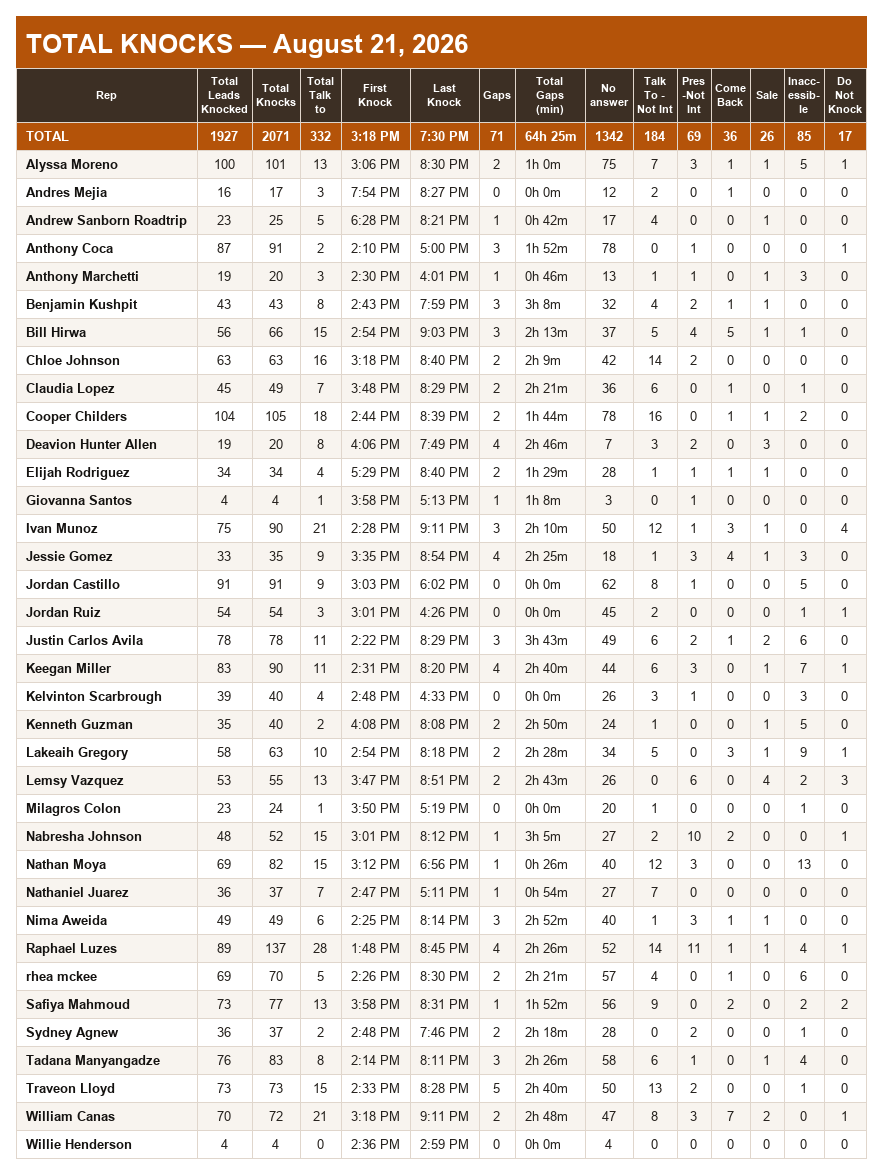
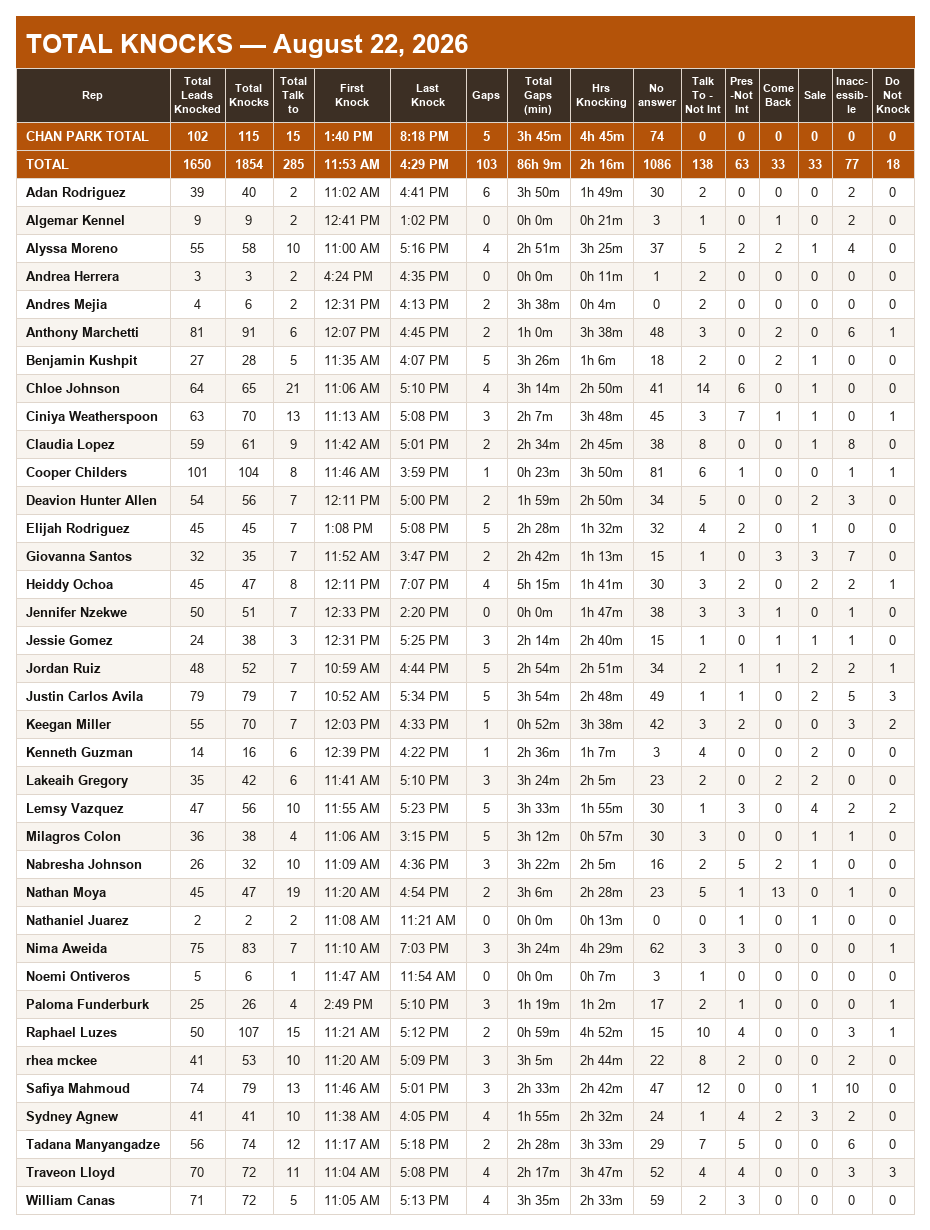
daily knocks board: chan's totals above ours + Hrs Knocking column
raf (slack 2026-08-23):
- the Local Office daily board now carries CHAN PARK TOTAL above our
  TOTAL row — his office pulled in its own session, totals line only,
  best-effort (a chan pull failure never blocks raf's post). offices
  env-configurable via KNOCKS_EXTRA_TOTALS
- new "Hrs Knocking" column after Total Gaps: (last − first) − gaps,
  the same formula his weekly dispositions board uses; rep rows show
  the day, TOTAL rows show the office average
- highlight_first_row now takes an int N (first N rows) mirroring the
  dispositions board's int highlight_last_row; combined-board selection
  and totals math extracted into shared helpers

Changed region(s): [[0.0, 0.0, 1.0, 1.0]]

diff --git a/automations/total_knocks/render.py b/automations/total_knocks/render.py
@@ -74,6 +74,15 @@ COMBINED_KNOCKS_DISPLAY = {
     COL_TALK_TO_NI: "Talk To - Not Int",
     COL_PRES_NI: "Pres - Not Int",
 }
+# Derived at render time (Raf 2026-08-23: "AVG Hrs knocking per day"):
+# (last knock − first knock) − total gaps, the same formula his weekly
+# dispositions board uses. Rep rows show that day's hours; the TOTAL rows
+# show the office average.
+COL_HRS_KNOCKING = "Hrs Knocking"
+COMBINED_KNOCKS_HEADERS = (
+    COMBINED_KNOCKS_COLUMNS[:COMBINED_KNOCKS_COLUMNS.index(COL_TOTAL_GAPS) + 1]
+    + [COL_HRS_KNOCKING]
+    + COMBINED_KNOCKS_COLUMNS[COMBINED_KNOCKS_COLUMNS.index(COL_TOTAL_GAPS) + 1:])
 # Time Gaps shows just these, in this order.
 TIME_GAPS_COLUMNS = [COL_ID, COL_REP, COL_FIRST_KNOCK, COL_LAST_KNOCK,
                      COL_GAPS, COL_TOTAL_GAPS]
@@ -207,8 +216,8 @@ def _wrap_header(probe, text: str, fit_w: int, font) -> list[str]:
 def _draw(header: list[str], rows: list[list[str]], title: str, theme: dict,
           out_path: Path, name_col: int = 1,
           wrap_headers: bool = False,
-          highlight_last_row: bool = False,
-          highlight_first_row: bool = False,
+          highlight_last_row: "bool | int" = False,
+          highlight_first_row: "bool | int" = False,
           repeat_header_before: int = 0) -> Path:
     """Generic table → PNG. `name_col` (0-based) is left-aligned + bold.
 
@@ -332,8 +341,11 @@ def _draw(header: list[str], rows: list[list[str]], title: str, theme: dict,
     for ri, r in enumerate(rows):
         if ri == _rep_at:
             y = _header_band(y)            # the bottom header band
+        # highlight_first_row mirrors highlight_last_row: True==1; int N =
+        # the first N rows (a board carrying other offices' totals above its
+        # own, Raf 2026-08-23).
         is_total = ((_n_hl and ri >= len(rows) - _n_hl)
-                    or (highlight_first_row and ri == 0))
+                    or ri < int(highlight_first_row or 0))
         bg = (theme.get("total_bg", theme["header_bg"]) if is_total
               else ROW_BG_A if ri % 2 == 0 else theme["stripe"])
         d.rectangle([PAD, y, PAD + table_w, y + ROW_H], fill=bg)
@@ -378,7 +390,8 @@ def render_total_knocks(target: dt.date, *, tab: str = TAB_PROD,
                         sheet_id: str = SHEET_ID,
                         out_dir: Path = OUT_DIR_DEFAULT,
                         rows: list[dict] | None = None,
-                        title_suffix: str = "") -> Path:
+                        title_suffix: str = "",
+                        extra_totals: "list[tuple[str, list[dict]]] | None" = None) -> Path:
     """THE fiber knocks board — combined per Raf's Loom (2026-08-22): every
     disposition count PLUS Gaps + Total Gaps (in front of Last Knock), no ID
     column, alphabetical by rep, wrapped headers so the boxes hug the numbers.
@@ -399,63 +412,37 @@ def render_total_knocks(target: dt.date, *, tab: str = TAB_PROD,
         header, rows = _read_table(sheet_id, tab)
     if not rows:
         raise RuntimeError(f"No data rows in tab {tab!r} to render.")
-    # Raf's Loom 2026-08-22 — ONE combined fiber board: drop ID, pull Gaps +
-    # Total Gaps in (in front of Last Knock) so the separate Time Gaps post
-    # retires, alphabetical by rep, and wrapped headers so the boxes hug the
-    # numbers instead of the header text.
-    idx = {}
-    for i, h in enumerate(header):
-        k = _norm(h)
-        if k and k not in idx:
-            idx[k] = i
-    missing = [c for c in COMBINED_KNOCKS_COLUMNS if _norm(c) not in idx]
-    if missing:
-        raise RuntimeError(f"Tab {tab!r} missing column(s) for Total Knocks: "
-                           f"{missing}. Header: {header}")
-    sel = [idx[_norm(c)] for c in COMBINED_KNOCKS_COLUMNS]
-    sub = [[(r[i] if i < len(r) else "") for i in sel] for r in rows]
-    rep_pos = COMBINED_KNOCKS_COLUMNS.index(COL_REP)
-    tg_pos = COMBINED_KNOCKS_COLUMNS.index(COL_TOTAL_GAPS)
-    sub.sort(key=lambda r: str(r[rep_pos]).strip().lower())
+    sub = _combined_sub(header, rows, where=f"tab {tab!r}")
+    totals = _combined_totals("TOTAL", sub)
 
-    # TOTAL footer (Megan 2026-08-22): every count column sums; the knock-time
-    # cells show the office AVERAGE first/last knock (reps with a parsable
-    # time only — same convention as the weekly dispositions board); Total
-    # Gaps sums in minutes and shows as 'Xh Ym'.
-    def _int0(v) -> int:
-        v = str(v).strip()
-        return int(v) if v.isdigit() else 0
+    # Extra offices' totals rows ABOVE ours (Raf 2026-08-23: "add Chan's
+    # totals above ours daily") — each is (office name, records keyed by
+    # SHEET_COLUMNS); only their TOTAL line shows, not their reps.
+    extra_rows: list[list[str]] = []
+    for name, recs in (extra_totals or []):
+        x_header, x_rows = _table_from_rows(recs)
+        if not x_rows:
+            continue
+        x_sub = _combined_sub(x_header, x_rows, where=f"extra office {name!r}")
+        extra_rows.append(_combined_totals(f"{name.upper()} TOTAL", x_sub))
 
-    def _avg_time(pos: int) -> str:
-        mins = [m for m in (_knock_time_key(str(r[pos])) for r in sub)
-                if m < 24 * 60]
-        if not mins:
-            return ""
-        m = round(sum(mins) / len(mins))
-        h, mm = divmod(m, 60)
-        return f"{h % 12 or 12}:{mm:02d} {'AM' if h < 12 else 'PM'}"
-
-    totals: list[str] = []
-    for ci, c in enumerate(COMBINED_KNOCKS_COLUMNS):
-        if c == COL_REP:
-            totals.append("TOTAL")
-        elif c in (COL_FIRST_KNOCK, COL_LAST_KNOCK):
-            totals.append(_avg_time(ci))
-        else:
-            totals.append(str(sum(_int0(r[ci]) for r in sub)))
-
+    hrs_pos = COMBINED_KNOCKS_HEADERS.index(COL_HRS_KNOCKING)
+    tg_pos = COMBINED_KNOCKS_HEADERS.index(COL_TOTAL_GAPS)
     for r in sub:
         r[tg_pos] = _fmt_hm(r[tg_pos])
-    totals[tg_pos] = _fmt_hm(totals[tg_pos])
-    # Office row at the TOP, right under the header (Raf 2026-08-22:
-    # "averages of the whole office at the top").
-    sub.insert(0, totals)
+        r[hrs_pos] = _fmt_hm(r[hrs_pos])
+    for t in extra_rows + [totals]:
+        t[tg_pos] = _fmt_hm(t[tg_pos])
+        t[hrs_pos] = _fmt_hm(t[hrs_pos])
+    # Office rows at the TOP, right under the header (Raf 2026-08-22).
+    table = extra_rows + [totals] + sub
     _office = f"{title_suffix.upper()} — " if title_suffix else ""
-    disp = [COMBINED_KNOCKS_DISPLAY.get(c, c) for c in COMBINED_KNOCKS_COLUMNS]
-    return _draw(disp, sub,
+    disp = [COMBINED_KNOCKS_DISPLAY.get(c, c) for c in COMBINED_KNOCKS_HEADERS]
+    return _draw(disp, table,
                  f"TOTAL KNOCKS — {_office}{_title_date(target)}",
                  THEME_AMBER, out_dir / f"total_knocks_{target.isoformat()}.png",
-                 name_col=0, wrap_headers=True, highlight_first_row=True)
+                 name_col=0, wrap_headers=True,
+                 highlight_first_row=1 + len(extra_rows))
 
 
 def _gap_min(v: str) -> int:
@@ -517,6 +504,71 @@ def render_time_gaps(target: dt.date, *, tab: str = TAB_PROD,
     return _draw(list(TIME_GAPS_COLUMNS), sub,
                  f"TIME GAPS — {_office}{_title_date(target)}",
                  THEME_TEAL, out_dir / f"time_gaps_{target.isoformat()}.png")
+
+
+def _combined_sub(header: list[str], rows: list[list[str]],
+                  where: str = "") -> list[list[str]]:
+    """Select + order one office's rows into the combined-board shape:
+    COMBINED_KNOCKS_HEADERS order (Hrs Knocking computed), alphabetical by
+    rep. Gap/hour cells stay raw minutes — the caller formats them."""
+    idx = {}
+    for i, h in enumerate(header):
+        k = _norm(h)
+        if k and k not in idx:
+            idx[k] = i
+    missing = [c for c in COMBINED_KNOCKS_COLUMNS if _norm(c) not in idx]
+    if missing:
+        raise RuntimeError(f"{where or 'data'} missing column(s) for Total "
+                           f"Knocks: {missing}. Header: {header}")
+    sel = [idx[_norm(c)] for c in COMBINED_KNOCKS_COLUMNS]
+    sub = [[(r[i] if i < len(r) else "") for i in sel] for r in rows]
+    rep_pos = COMBINED_KNOCKS_COLUMNS.index(COL_REP)
+    sub.sort(key=lambda r: str(r[rep_pos]).strip().lower())
+    # Insert the derived Hrs Knocking cell: (last − first) − total gaps.
+    fk = COMBINED_KNOCKS_COLUMNS.index(COL_FIRST_KNOCK)
+    lk = COMBINED_KNOCKS_COLUMNS.index(COL_LAST_KNOCK)
+    tg = COMBINED_KNOCKS_COLUMNS.index(COL_TOTAL_GAPS)
+    hrs_at = COMBINED_KNOCKS_HEADERS.index(COL_HRS_KNOCKING)
+    for r in sub:
+        f, l = _knock_time_key(str(r[fk])), _knock_time_key(str(r[lk]))
+        gaps_min = str(r[tg]).strip()
+        gaps_min = int(gaps_min) if gaps_min.isdigit() else 0
+        if f >= 24 * 60 or l >= 24 * 60 or l <= f:
+            r.insert(hrs_at, "")
+        else:
+            r.insert(hrs_at, str(max(l - f - gaps_min, 0)))
+    return sub
+
+
+def _combined_totals(label: str, sub: list[list[str]]) -> list[str]:
+    """One office's TOTAL line for the combined board: counts sum, the knock
+    times average (reps with a parsable time only), Total Gaps sums, Hrs
+    Knocking averages. Gap/hour cells stay raw minutes for the caller."""
+    def _int0(v) -> int:
+        v = str(v).strip()
+        return int(v) if v.isdigit() else 0
+
+    def _avg_time(pos: int) -> str:
+        mins = [m for m in (_knock_time_key(str(r[pos])) for r in sub)
+                if m < 24 * 60]
+        if not mins:
+            return ""
+        m = round(sum(mins) / len(mins))
+        h, mm = divmod(m, 60)
+        return f"{h % 12 or 12}:{mm:02d} {'AM' if h < 12 else 'PM'}"
+
+    totals: list[str] = []
+    for ci, c in enumerate(COMBINED_KNOCKS_HEADERS):
+        if c == COL_REP:
+            totals.append(label)
+        elif c in (COL_FIRST_KNOCK, COL_LAST_KNOCK):
+            totals.append(_avg_time(ci))
+        elif c == COL_HRS_KNOCKING:
+            vals = [_int0(r[ci]) for r in sub if str(r[ci]).strip() != ""]
+            totals.append(str(round(sum(vals) / len(vals))) if vals else "")
+        else:
+            totals.append(str(sum(_int0(r[ci]) for r in sub)))
+    return totals
 
 
 def _knock_time_key(v: str) -> int:

diff --git a/automations/total_knocks/run.py b/automations/total_knocks/run.py
@@ -37,6 +37,15 @@ from automations.total_knocks.pull import central_today, pull_disposition_day
 # so the separate Time Gaps post retired (the Sheet tab still fills both).
 POST_TOTAL_KNOCKS = ("🚪 Total Knocks", "door")
 
+# Offices whose TOTAL line rides ABOVE ours on the daily board (Raf
+# 2026-08-23: "add Chan's totals above ours daily"). Their reps don't show —
+# just the one totals row each. Best-effort: a pull failure here never blocks
+# the Local Office post. Comma-separated env override, blank disables.
+import os as _os
+EXTRA_TOTALS_OFFICES = [o.strip() for o in
+                        _os.environ.get("KNOCKS_EXTRA_TOTALS",
+                                        "Chan Park").split(",") if o.strip()]
+
 
 def _yesterday() -> dt.date:
     return central_today() - dt.timedelta(days=1)
@@ -93,8 +102,28 @@ def run(target: dt.date | None = None, *, test_tab: bool = False,
     print(f"[total_knocks] Wrote {stats['reps']} rep(s) to "
           f"{stats['write_range']}.", flush=True)
 
-    # 3. Render the ONE combined board (knocks + gaps) from the filled tab.
-    img_tk = _render.render_total_knocks(target, tab=tab)
+    # 3. Extra offices' totals (Chan) for the rows above ours — pulled in
+    #    their own ownerville session AFTER ours closed. Best-effort.
+    extra_totals = []
+    for extra_office in EXTRA_TOTALS_OFFICES:
+        try:
+            from automations.rashad_metrics.knocks_pull import pull_office_knocks
+            _, x_rows = pull_office_knocks(extra_office, target)
+            if x_rows:
+                extra_totals.append((extra_office, x_rows))
+                print(f"[total_knocks] {extra_office}: {len(x_rows)} rep(s) "
+                      "for the totals row.", flush=True)
+            else:
+                print(f"[total_knocks] ⚠ {extra_office}: no rows — posting "
+                      "without that totals line.", flush=True)
+        except Exception as e:                        # noqa: BLE001
+            print(f"[total_knocks] ⚠ {extra_office} totals pull failed "
+                  f"({type(e).__name__}: {e}) — posting without it.",
+                  flush=True)
+
+    # 4. Render the ONE combined board (knocks + gaps) from the filled tab.
+    img_tk = _render.render_total_knocks(target, tab=tab,
+                                         extra_totals=extra_totals)
     print(f"[total_knocks] Rendered -> {img_tk}", flush=True)
 
     # 4. Slack — the single combined post.
